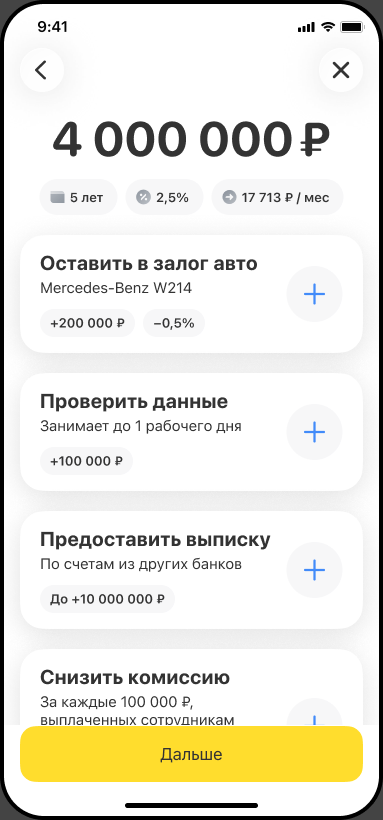
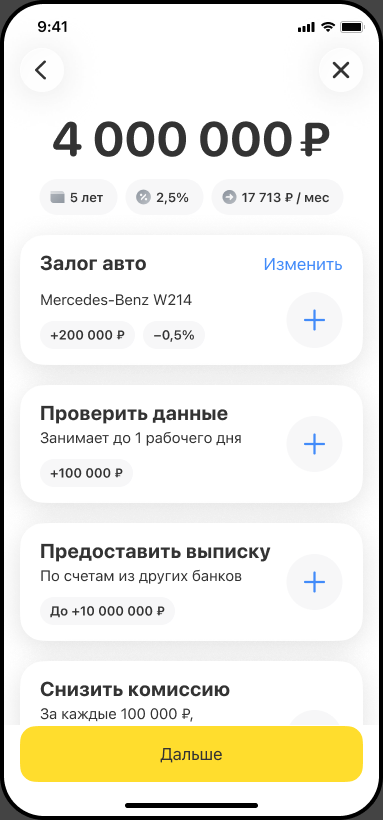
credit-activation v4: текст бабла и карточка «Залог авто» в ОК по макетам (#41)
* «Единая активация» v4 по секции Figma V5: «Кредит», «Условия» с барабаном, «Тарифы» в КН

- Menu axis «Сценарий» (КН / ОК) is back; КН goes «Кредит» → «Варианты платежа» → review, ОК straight to the review.
- «Кредит»: amount, the «До 4,5 млн ₽ с условиями» hint, «Срок» / «Платеж в месяц», the «Залог авто» card.
- «Условия»: shared-element transition from «Кредит» (the amount moves, both screens cross-fade, «Дальше» stays),
  an iOS picker-like wheel of five conditions under edge gradients, tap anywhere or on «+» to toggle.
- «Тарифы»: horizontal snap slider; the tariff drives the payment on the review.
- Review forks as v2: pledge → documents → «Получить деньги», otherwise «Получить деньги» at once; ОК shows the fee.
- iOS 26 glass app bar buttons; calc tests for v4; e2e smoke for the КН and ОК paths.

Claude-Session: https://claude.ai/code/session_01QvsWtwxhEemGMmG39nqg6f

* credit-activation v4: review fixes — tariff payments, tariff reset, wheel re-measure, unmount

- Tariff cards show their payment at the current amount, the same value as the review.
- Any forward step from «Кредит» drops an earlier tariff; «Платеж в месяц» there ignores it.
- The wheel re-measures when the wheel or the conditions block resize and when the fonts are ready.
- Screens get an unmount hook: the wheel observers and the amount count stop when a page leaves.
- «Тарифы» are not reachable in ОК; «Изменить» is visual only; unused v3 icons removed; stale comments fixed.
[…]

diff --git a/tests/e2e/smoke.spec.ts b/tests/e2e/smoke.spec.ts
@@ -375,9 +375,9 @@ test('credit-activation v4: КН goes through the packages, ОК straight to the
   await top.getByRole('button', { name: 'К счету' }).click();
   await expect(page).toHaveURL(/#\/$/);
 
-  // «До 4,5 млн ₽ с условиями» → «Условия» (КН: no pledge card, it lives on «Кредит»): a tap on a card toggles
+  // «400 000 ₽ и улучшить условия» → «Условия» (КН: no pledge card, it lives on «Кредит»): a tap on a card toggles
   // it and recalculates the header.
-  await top.getByRole('button', { name: /До 4,5/ }).click();
+  await top.getByRole('button', { name: /улучшить условия/ }).click();
   await expect(page).toHaveURL(/#\/conditions$/);
   await expect(top.getByRole('checkbox', { name: /залог/ })).toHaveCount(0);
   await top.getByRole('checkbox', { name: /Проверить данные/ }).click();
@@ -395,8 +395,9 @@ test('credit-activation v4: КН goes through the packages, ОК straight to the
   await page.goto('/p/credit-activation/v4/?shell=0&product=ok#/');
   await expect(top.getByText('Комиссия', { exact: true })).toBeVisible();
   await expect(top.getByRole('checkbox', { name: /Залог авто/ })).toHaveCount(0);
-  await top.getByRole('button', { name: /До 4,5/ }).click();
-  await expect(top.getByRole('checkbox', { name: /Оставить в залог авто/ })).toBeVisible();
+  await top.getByRole('button', { name: /улучшить условия/ }).click();
+  await expect(top.getByRole('checkbox', { name: /Залог авто/ })).toBeVisible();
+  await expect(top.getByText('Изменить')).toBeVisible();
   await top
     .getByRole('checkbox', { name: /Снизить комиссию/ })
     .first()
@@ -420,7 +421,7 @@ test('credit-activation v4: the shared-header transition to the conditions and b
 }) => {
   await page.goto('/p/credit-activation/v4/?shell=0#/');
   const top = page.locator('section:not([inert])');
-  await top.getByRole('button', { name: /До 4,5/ }).click();
+  await top.getByRole('button', { name: /улучшить условия/ }).click();
   await expect(page).toHaveURL(/#\/conditions$/);
   await expect(page.locator('.viewport')).not.toHaveClass(/is-busy/);
   // After the push the conditions page is opaque again and its faded parts are fully shown.

diff --git a/prototypes/credit-activation/versions/v4/src/screens/conditions.ts b/prototypes/credit-activation/versions/v4/src/screens/conditions.ts
@@ -3,7 +3,8 @@
 // anywhere on a card or on its «+» toggles it; the header recalculates at once («Условия выбраны»).
 // Opened from #/ with the shared-header transition (nav.ts); «Дальше» pushes #/review in КН and ОК.
 // КН has no pledge card here: its pledge lives on #/ (owner, 2026-10-25). The payment chip turns positive when the
-// payment goes below the offer's, like the fee chip.
+// payment goes below the offer's, like the fee chip. ОК's pledge card is drawn like the one on КН's #/: «Залог авто»
+// with «Изменить» in the title row.
 import { renderAmount, stopAmount } from '../amount';
 import {
   CHECK_BONUS,
@@ -40,12 +41,13 @@ const stopWheel = new WeakMap<HTMLElement, () => void>();
 
 type Key = 'pledge' | 'check' | 'statement' | FeeCut;
 
-const ALL_CARDS: { key: Key; title: string; description: string; badges: string }[] = [
+const ALL_CARDS: { key: Key; title: string; description: string; badges: string; link?: string }[] = [
   {
     key: 'pledge',
-    title: 'Оставить в залог авто',
+    title: 'Залог авто',
     description: 'Mercedes-Benz W214',
     badges: badges(badge(`+${formatRub(PLEDGE_BONUS)}`), badge('−0,5%')),
+    link: 'Изменить',
   },
   {
     key: 'check',
@@ -128,6 +130,7 @@ export const conditions: Screen = {
             description: card.description,
             badges: card.badges,
             checked: isOn(card.key),
+            link: card.link,
           }),
         ).join('')}
       </div>

diff --git a/prototypes/credit-activation/versions/v4/src/screens/credit.ts b/prototypes/credit-activation/versions/v4/src/screens/credit.ts
@@ -1,4 +1,4 @@
-// #/ — «Кредит»: the approved offer and the hint «До 4,5 млн ₽ с условиями» that opens #/conditions with the
+// #/ — «Кредит»: the approved offer and the hint «400 000 ₽ и улучшить условия» that opens #/conditions with the
 // shared-header transition. Two states (frames «Кредит КН» / «Кредит ОК»): КН shows «Срок» and «Платеж в месяц»
 // and the pledge card «Залог авто» (the same flag as on #/conditions, where КН has no pledge card); ОК shows
 // «Срок», «Комиссия» and a wide «Платеж в месяц» and no pledge card (owner, 2026-10-25). «Дальше» goes to
@@ -30,7 +30,7 @@ const hint = () => `
       ${mask('hint-tail.svg', 'hint__tail')}
       <span class="hint__body">
         ${mask('plus.svg', 'hint__plus')}
-        <span class="hint__label t-body-m">До 4,5&nbsp;млн&nbsp;₽ с&nbsp;условиями</span>
+        <span class="hint__label t-body-m">400&nbsp;000&nbsp;₽ и&nbsp;улучшить условия</span>
         ${mask('chevron-right-service.svg', 'hint__chevron')}
       </span>
     </button>

diff --git a/prototypes/credit-activation/versions/v4/src/style.css b/prototypes/credit-activation/versions/v4/src/style.css
@@ -616,7 +616,7 @@ body.ds-root {
   white-space: nowrap;
 }
 
-/* «+ До 4,5 млн ₽ с условиями ›»: tui-inline-hint, a 12 px tail pointing up at the amount, then the 44 px body. */
+/* «+ 400 000 ₽ и улучшить условия ›»: tui-inline-hint, a 12 px tail pointing up at the amount, then the 44 px body. */
 .hint {
   display: flex;
   justify-content: center;
@@ -826,7 +826,7 @@ body.ds-root {
   gap: var(--ds-space-2);
 }
 
-/* #/ «Залог авто»: the title row carries «Изменить»; description 16 px below, the circle centred on the
+/* «Залог авто» (#/ in КН, #/conditions in ОК): the title row carries «Изменить»; description 16 px below, the circle centred on the
    description and the badges (16 px from the card's bottom, as drawn). */
 .option--link .option__control {
   grid-template-areas:

diff --git a/prototypes/credit-activation/versions/v4/src/calc.ts b/prototypes/credit-activation/versions/v4/src/calc.ts
@@ -28,7 +28,7 @@ const FEE = { base: 25, pledge: 5 } as const;
 const FEE_CUT: Record<FeeCut, number> = { one: 10, half: 5 };
 
 export interface Choice {
-  /** «Оставить в залог авто» (#/conditions) = «Залог авто» (#/). */
+  /** «Залог авто» on #/ (КН) = «Залог авто» on #/conditions (ОК). */
   pledge: boolean;
   /** «Проверить данные» on #/conditions. */
   check: boolean;

diff --git a/prototypes/credit-activation/versions/v4/src/state.ts b/prototypes/credit-activation/versions/v4/src/state.ts
@@ -3,7 +3,7 @@
 import { BASE_CHOICE, type Choice, type FeeCut, type Tariff } from './calc';
 
 export interface FlowState {
-  /** «Залог авто» on #/ = «Оставить в залог авто» on #/conditions (one flag). */
+  /** «Залог авто» on #/ (КН) = «Залог авто» on #/conditions (ОК): one flag. */
   pledge: boolean;
   /** «Проверить данные» on #/conditions. */
   check: boolean;

diff --git a/docs/STATUS.md b/docs/STATUS.md
@@ -3,7 +3,7 @@
 Вся документация ведётся в Google Drive, в папке **Proto/Docs** (ADR-0004). Этот файл — только указатель для новой сессии.
 
 - **Полный STATUS:** Google Doc «STATUS» — https://docs.google.com/document/d/1ZB4tYTN-dJxOKq3Pa-ojL29QglDGBzcl-6g-sDIiH6E/edit (fileId `1ZB4tYTN-dJxOKq3Pa-ojL29QglDGBzcl-6g-sDIiH6E`).
-- **Текущая фаза:** плановые фазы 0–8 завершены; редизайн среды (ADR-0020) и ADR-0021 смержены. «Единая активация» v2 и оси меню просмотрщика (ADR-0022) смержены (PR #22); анимация нажатия карточек — PR #23 смержен. Кнопка вариантов на телефоне (ADR-0023), фиксированный платёж и возврат ползунка — PR #24 смержен. Залог тапом прибавляет +3 млн к ползунку — PR #25 смержен. Платёж от суммы, без пакета КН +15% — PR #26 смержен. В работе: текстовые стили v2 как в Figma, белый фон на телефоне, хаптик ползунка — PR #27 смержен. В работе: хаптик на iOS, панель до низа экрана, отступы карточек — PR #28 смержен. В работе: интервал текста в Safari не удваивается, ползунок после снятия залога — PR #29 смержен. Интервал текста по таблице системного шрифта iOS — PR #30 смержен. «Единая активация» v3 (сценарий «Тяжелые / Легкие») и переключатель версий рядом с осями меню, оси v2 на v3 серые (ADR-0024) — PR #31 смержен. v3 — на «Несколько документов» кнопка «Дальше», «Получить деньги» только на «Легких» — PR #32 смержен. v3 — путь сразу через «Легкие» идёт «Дальше» → «Проверка условий» → «Успех» — PR #33 смержен. v3 — в пути сразу через «Легкие» на «Проверке условий» «Получить деньги» с юридической строкой — PR #34 смержен. v3 — путь через «Тяжелые» через документы и «Легкие» к «Проверке условий», тексты по обновлённому макету — PR #35 смержен. v3 — карточки «Снизим комиссию» выбираются вместе и суммируются — PR #36 смержен. v3 — подпись «До 9 млн ₽ с условиями» на «Условиях» — PR #37 смержен. «Единая активация» v4 по секции Figma V5 (экраны «Кредит», «Условия» с барабаном, «Тарифы» в КН, ось КН / ОК) — PR #38 смержен. v4 по ревью — «Кредит» в двух состояниях (КН / ОК), «Пакет» вместо «Тариф», зелёный платёж при снижении — PR #39 смержен. В работе: v4 — хвостик бабла анимируется вместе с ним, сумма без рывка при переходе «Условия» → «Кредит» — PR ждёт мержа. Дальше — работа по плейбукам в Proto/Docs/Playbooks.
+- **Текущая фаза:** плановые фазы 0–8 завершены; редизайн среды (ADR-0020) и ADR-0021 смержены. «Единая активация» v2 и оси меню просмотрщика (ADR-0022) смержены (PR #22); анимация нажатия карточек — PR #23 смержен. Кнопка вариантов на телефоне (ADR-0023), фиксированный платёж и возврат ползунка — PR #24 смержен. Залог тапом прибавляет +3 млн к ползунку — PR #25 смержен. Платёж от суммы, без пакета КН +15% — PR #26 смержен. В работе: текстовые стили v2 как в Figma, белый фон на телефоне, хаптик ползунка — PR #27 смержен. В работе: хаптик на iOS, панель до низа экрана, отступы карточек — PR #28 смержен. В работе: интервал текста в Safari не удваивается, ползунок после снятия залога — PR #29 смержен. Интервал текста по таблице системного шрифта iOS — PR #30 смержен. «Единая активация» v3 (сценарий «Тяжелые / Легкие») и переключатель версий рядом с осями меню, оси v2 на v3 серые (ADR-0024) — PR #31 смержен. v3 — на «Несколько документов» кнопка «Дальше», «Получить деньги» только на «Легких» — PR #32 смержен. v3 — путь сразу через «Легкие» идёт «Дальше» → «Проверка условий» → «Успех» — PR #33 смержен. v3 — в пути сразу через «Легкие» на «Проверке условий» «Получить деньги» с юридической строкой — PR #34 смержен. v3 — путь через «Тяжелые» через документы и «Легкие» к «Проверке условий», тексты по обновлённому макету — PR #35 смержен. v3 — карточки «Снизим комиссию» выбираются вместе и суммируются — PR #36 смержен. v3 — подпись «До 9 млн ₽ с условиями» на «Условиях» — PR #37 смержен. «Единая активация» v4 по секции Figma V5 (экраны «Кредит», «Условия» с барабаном, «Тарифы» в КН, ось КН / ОК) — PR #38 смержен. v4 по ревью — «Кредит» в двух состояниях (КН / ОК), «Пакет» вместо «Тариф», зелёный платёж при снижении — PR #39 смержен. v4 — хвостик бабла анимируется вместе с ним, сумма без рывка при переходе «Условия» → «Кредит» — PR #40 смержен. В работе: v4 — текст бабла «400 000 ₽ и улучшить условия» и карточка «Залог авто» на «Условиях» в ОК по макету — PR ждёт мержа. Дальше — работа по плейбукам в Proto/Docs/Playbooks.
 - **Обновлено:** 2026-10-25.
 
 ## Как продолжить (для новой сессии)

diff --git a/prototypes/credit-activation/versions/v4/spec/spec.md b/prototypes/credit-activation/versions/v4/spec/spec.md
@@ -19,7 +19,7 @@ the screens v4 keeps.
 ## Owner's brief (2026-10-25)
 
 - New version; a new control in the viewer menu with two variants, КН and ОК (`axes` → `product`, ADR-0022).
-- «Кредит» is the same in КН and ОК. «До 4,5 млн ₽ с условиями» → «Условия» with a smooth move of the amount
+- «Кредит» is the same in КН and ОК. «400 000 ₽ и улучшить условия» → «Условия» with a smooth move of the amount
   (Header), a fade of the navbar and of every other element of both screens; «Дальше» does not animate.
 - «Условия»: the «Барабан условий» scrolls like an iOS picker: top and bottom cards scale a little and go under the
   conditions block and «Дальше»; under those blocks a small gradient (opacity 100 → 0) so the wheel does not butt
@@ -38,7 +38,7 @@ the screens v4 keeps.
 - The payment chip on «Условия» turns positive (green) when the payment is recalculated downwards, like the fee chip.
 - «Тариф» becomes «Пакет» in every visible text (the code keeps `tariff`).
 - The inline hint gets its tail back; «Залог авто»: the «+» sits 16 px above the card's bottom edge.
-- ОК: no «Залог авто» card on «Кредит». КН: no «Оставить в залог авто» card on «Условия» (the pledge lives on
+- ОК: no «Залог авто» card on «Кредит». КН: no «Залог авто» card on «Условия» (the pledge lives on
   «Кредит»).
 - Back chevron in the app bar placed as drawn: 11 × 19 glyph at (5, 2.5) in its 24 px box.
 
@@ -46,7 +46,7 @@ the screens v4 keeps.
 
 | From           | Control                                | Goes to                                             |
 | -------------- | -------------------------------------- | --------------------------------------------------- |
-| `#/`           | «+ До 4,5 млн ₽ с условиями ›»         | push `#/conditions` (shared transition)             |
+| `#/`           | «+ 400 000 ₽ и улучшить условия ›»     | push `#/conditions` (shared transition)             |
 | `#/`           | «Залог авто» card / «+»                | toggles the pledge (same flag as on conditions)     |
 | `#/`           | «Дальше»                               | КН: `#/tariffs`; ОК: `#/review`                     |
 | `#/conditions` | «Дальше»                               | `#/review`                                          |
@@ -99,7 +99,7 @@ of `#/review`, `#/upload` on top of `#/documents`.
 - Conditions block (part of the sticky top bars, plain background): amount pt 8 pb 8 (`data-shared`), chips row
   (`tui-chip` 36 px, px 10, neutral-1, 8 px gap, glyph secondary, ui-s-bold): «5 лет» (calendar), fee (percent,
   positive-pale + positive when lowered), «17 713 ₽ / мес» (arrow; positive when the payment is below the offer's).
-- Wheel: option cards, 20 px apart (pt 20); ОК has all five, КН has no pledge card: «Оставить в залог авто» (+200 000 ₽, −0,5%), «Проверить данные» /
+- Wheel: option cards, 20 px apart (pt 20); ОК has all five, КН has no pledge card: «Залог авто» (ОК; drawn like КН's card on «Кредит» — «Изменить» in the title row, «Mercedes-Benz W214», +200 000 ₽, −0,5%), «Проверить данные» /
   «Занимает до 1 рабочего дня» (+100 000 ₽), «Предоставить выписку» / «По счетам из других банков» (До +10 000 000 ₽),
   «Снизить комиссию» / «За каждые 100 000 ₽, выплаченных сотрудникам в месяц» (% −1%, neutral-2), «Снизить
   комиссию» / «Поддерживайте оборот по счету для бизнеса в Т‑Банке от 46 789 ₽/мес» (% До −0,5%; the frame's
